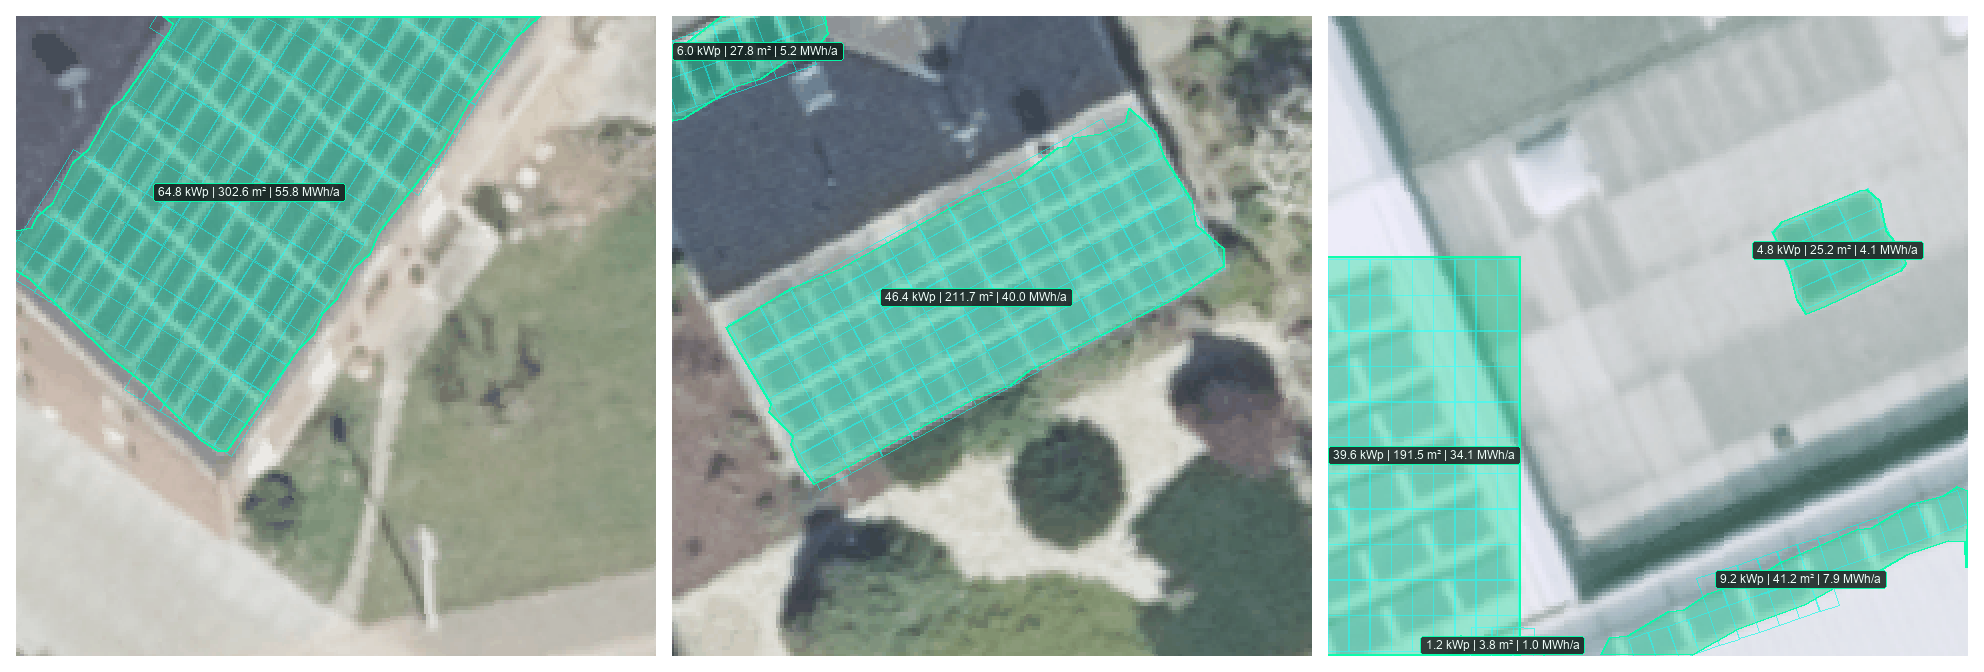
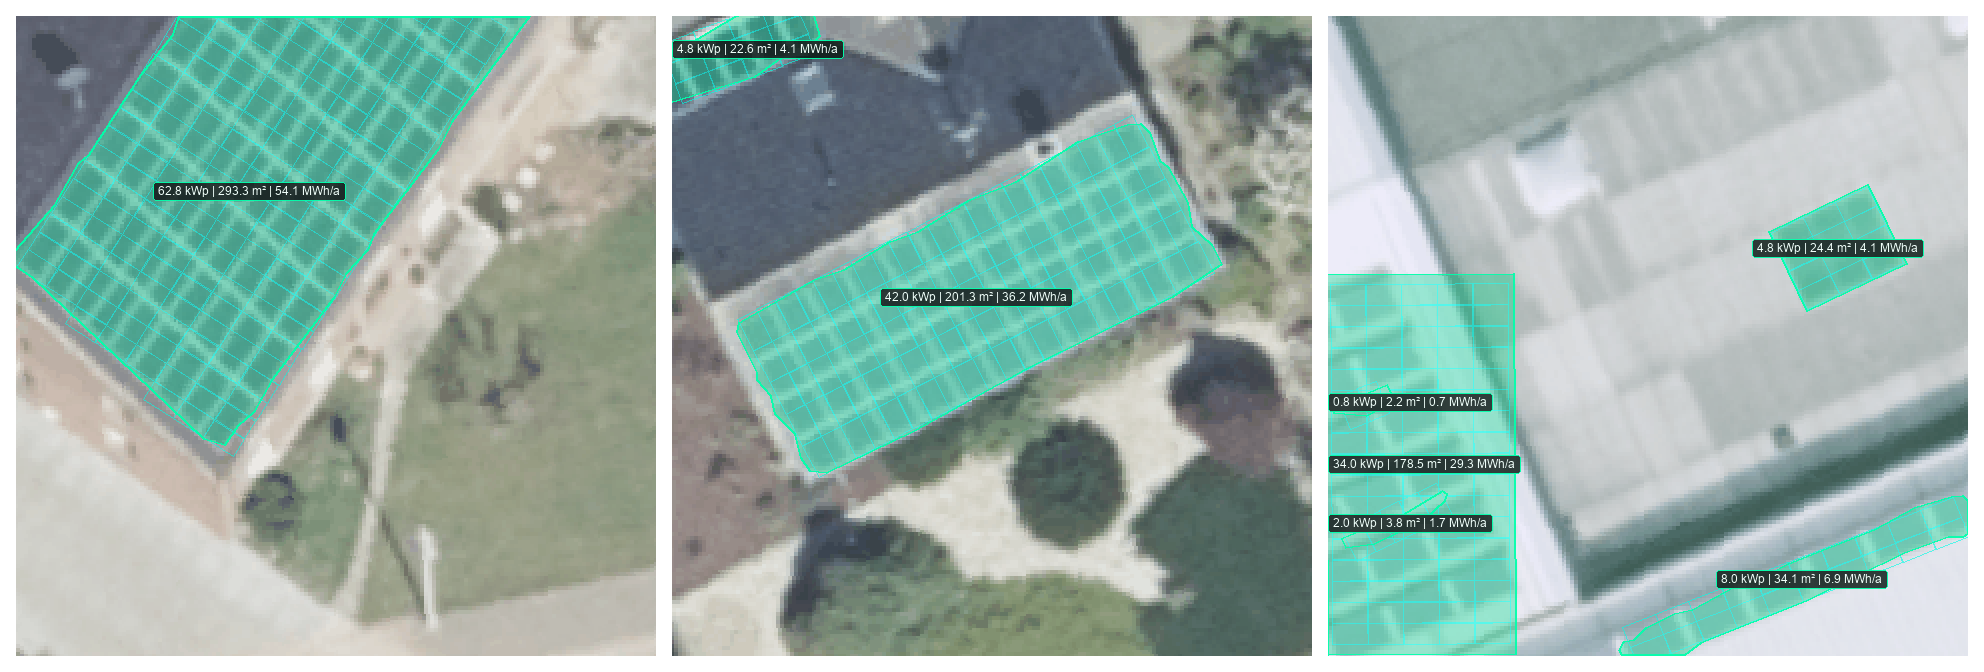
Align Vidda and Tinden profiles with the measured benchmark settings

diff --git a/src/pvextent/cli.py b/src/pvextent/cli.py
@@ -281,9 +281,11 @@ def main(argv: list[str] | None = None) -> int:
                     if c.exists():
                         args.checkpoint = [str(c)]
                         break
+            # The settings the sealed benchmark measured
             args.tta = "none"
             args.scales = [1.0]
             args.overlap = 0.25
+            args.threshold = 0.5
         elif getattr(args, "profile", None) == "tinden":
             if not args.checkpoint:
                 cand1 = Path("runs/deeplabv3plus-resnet50-v5-photometric-001/best.pt")
@@ -293,12 +295,13 @@ def main(argv: list[str] | None = None) -> int:
                     args.ensemble_weights = [0.5, 0.5]
                 elif cand1.exists():
                     args.checkpoint = [str(cand1)]
+            # The settings the sealed benchmark measured; multi-scale TTA and the
+            # spectral veto remain available as explicit options but are unmeasured
             args.tta = "d4"
-            args.scales = [0.9, 1.0, 1.1]
+            args.scales = [1.0]
             args.overlap = 0.50
-            args.calibrate = True
             args.temperature = 0.4068
-            args.veto_vegetation = True
+            args.threshold = 0.505
 
         final_probs = None
         final_uncert = None

diff --git a/src/pvextent/models/releases.py b/src/pvextent/models/releases.py
@@ -61,7 +61,7 @@ VIDDA_RELEASE_SPEC = ModelReleaseSpec(
     default_overlap=0.25,
     default_tta="none",
     default_scales=(1.0,),
-    temperature=0.4068,
+    temperature=1.0,
     supports_3d_elevation=True,
     supports_4d_temporal=True,
     supports_multispectral_nir=False,
@@ -120,7 +120,7 @@ TINDEN_RELEASE_SPEC = ModelReleaseSpec(
     default_tile_size=400,
     default_overlap=0.50,
     default_tta="d4",
-    default_scales=(0.90, 1.00, 1.10),
+    default_scales=(1.0,),
     temperature=0.4068,
     supports_3d_elevation=True,
     supports_4d_temporal=True,

diff --git a/README.md b/README.md
@@ -66,19 +66,18 @@ finds 86% of the PV pixels on one building and none on the other two.
 | :--- | :--- | :--- | :--- |
 | **Profile** | Current NRW imagery, fewest false alarms | Standard, high throughput | High-end, ensemble |
 | **Architecture** | DeepLabV3+ ResNet50 ASPP (V7: Vidda recipe plus reviewed NRW hard negatives) | DeepLabV3+ ResNet50 ASPP (V5, photometric augmentation) | Equal-weight ensemble of V5 and V6 (V6: self-trained on NRW pseudo-labels) |
-| **Test-time augmentation** | None | None | Dihedral $D_4$ (8 orientations) + scales 0.9 / 1.0 / 1.1 |
+| **Test-time augmentation** | None | None | Dihedral $D_4$ (8 orientations) |
 | **Tiling** | 400 px tiles, 50% overlap, 2D Hann blending | 400 px tiles, 25% overlap, 2D Hann blending | 400 px tiles, 50% overlap, 2D Hann blending |
-| **Calibration / threshold** | None, 0.5 | None, 0.25 | Temperature scaling, $T = 0.4068$ |
+| **Calibration / threshold** | None, 0.5 | None, 0.5 | Temperature scaling, $T = 0.4068$; 0.505 |
 | **Sealed test IoU** | 88.83% | 88.16% | 89.15% |
 | **Sealed test recall** | 93.71% | 93.53% | 94.93% |
 | **NRW test v1 IoU** | 54.1% | 44.1% | 53.3% |
 | **CLI** | `--profile fjell` | `--profile vidda` | `--profile tinden` |
 
 Sealed test metrics come from the [sealed benchmark](#benchmark), which covers PV4GER
-imagery only; NRW figures from [NRW test set v1](#current-nrw-imagery). Vidda and Fjell
-were measured at threshold 0.5. The benchmarked Tinden configuration used $D_4$ TTA at
-a single scale and threshold 0.505; the multi-scale averaging and the 0.25 threshold of
-the Vidda and Tinden CLI profiles were not part of either evaluation. Checkpoints are not distributed with this
+imagery only; NRW figures from [NRW test set v1](#current-nrw-imagery). Each CLI profile
+runs exactly the configuration that was measured. Multi-scale TTA (`--scales`) and the
+vegetation veto remain available as options but have not been evaluated. Checkpoints are not distributed with this
 repository.
 
 ## Benchmark
@@ -122,7 +121,8 @@ pseudo-NIR channel, and the resulting NDVI/CIR output is not physically meaningf
 
 `pvextent vectorize --profile vidda` on the same three test crops: regularized polygons,
 fitted 400 W module grid and kWp/yield estimates. Without a DSM the roof is treated as
-flat. The profile thresholds at 0.25, which merges adjacent module rows on the right.
+flat. In the right crop the separate module rows on the left still merge into one
+block, and the skylight on the right is counted as a 4.8 kWp array, which is wrong.
 
 ![Output of pvextent temporal on Geobasis NRW imagery from 2015 and 2025.](docs/assets/temporal-change.jpg)
 
